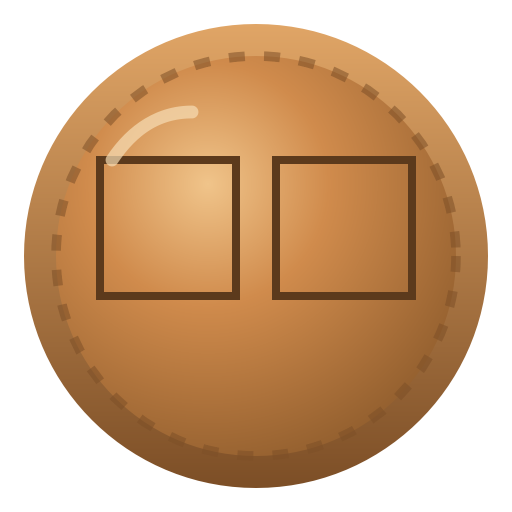
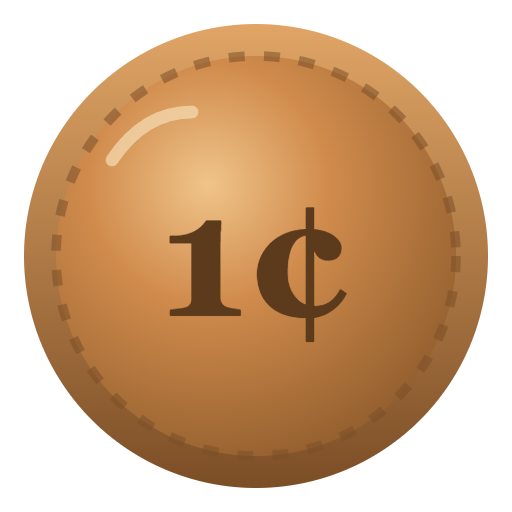
docs(site): correct the social preview image
The previous PNG was rasterised headlessly with no font database, so the coin rendered two empty boxes instead of 1c. Re-rendered through a browser and verified.

Also reverts the favicon, nav and hero images to the SVG: only og:image, twitter:image and the JSON-LD image need a raster format.

Changed region(s): [[0.5, 0.2812, 0.8125, 0.6875], [0.1875, 0.2812, 0.4688, 0.625]]

diff --git a/docs/index.html b/docs/index.html
@@ -21,7 +21,7 @@
 <meta name="twitter:title" content="Coin Recognition: Year and Mint Mark from US Cents">
 <meta name="twitter:description" content="Machine learning reads the worn coins; OCR reads the clear ones; a confidence-scored hybrid decides. Local, no cloud, no account.">
 <meta name="twitter:image" content="https://oernster.github.io/coin-analysis/assets/coin-analysis.png">
-<link rel="icon" type="image/svg+xml" href="assets/coin-analysis.png">
+<link rel="icon" type="image/svg+xml" href="assets/coin-analysis.svg">
 <link rel="stylesheet" href="styles.css">
 <script type="application/ld+json">{"@context": "https://schema.org", "@type": "SoftwareApplication", "name": "Coin Recognition", "applicationCategory": "MultimediaApplication", "operatingSystem": "Windows, macOS, Linux", "description": "A local desktop application that recognizes the year and mint mark on US cents from photographs, combining a scikit-learn classifier with Tesseract OCR in a hybrid, confidence-scored prediction. Processes single images or batches and exports results to CSV or JSON.", "url": "https://oernster.github.io/coin-analysis/", "image": "https://oernster.github.io/coin-analysis/assets/coin-analysis.png", "isAccessibleForFree": true, "offers": {"@type": "Offer", "price": "0", "priceCurrency": "GBP"}, "author": {"@type": "Person", "name": "Oliver Ernster", "url": "https://www.crankthecode.com/"}, "audience": {"@type": "Audience", "audienceType": "Coin collectors, numismatists and computer-vision hobbyists"}, "keywords": "coin recognition, numismatics, US cent, mint mark, OCR, scikit-learn, computer vision, hybrid prediction", "license": "https://www.gnu.org/licenses/gpl-3.0.html"}</script>
 </head>
@@ -29,7 +29,7 @@
 <header class="nav">
   <div class="container nav-inner">
     <a class="brand" href="#top">
-      <img src="assets/coin-analysis.png" alt="Coin Recognition icon">Coin Recognition</a>
+      <img src="assets/coin-analysis.svg" alt="Coin Recognition icon">Coin Recognition</a>
     <nav class="nav-links">
       <a href="#who">Who it's for</a>
       <a href="#what">What it does</a>
@@ -42,7 +42,7 @@
 <main id="top">
   <section class="hero">
     <div class="container">
-      <img class="logo" src="assets/coin-analysis.png" alt="Coin Recognition icon">
+      <img class="logo" src="assets/coin-analysis.svg" alt="Coin Recognition icon">
       <h1>Coin Recognition</h1>
       <div class="tagline">Year and Mint Mark, from a Photograph</div>
       <p class="lede">A local desktop application that reads the year and mint mark
